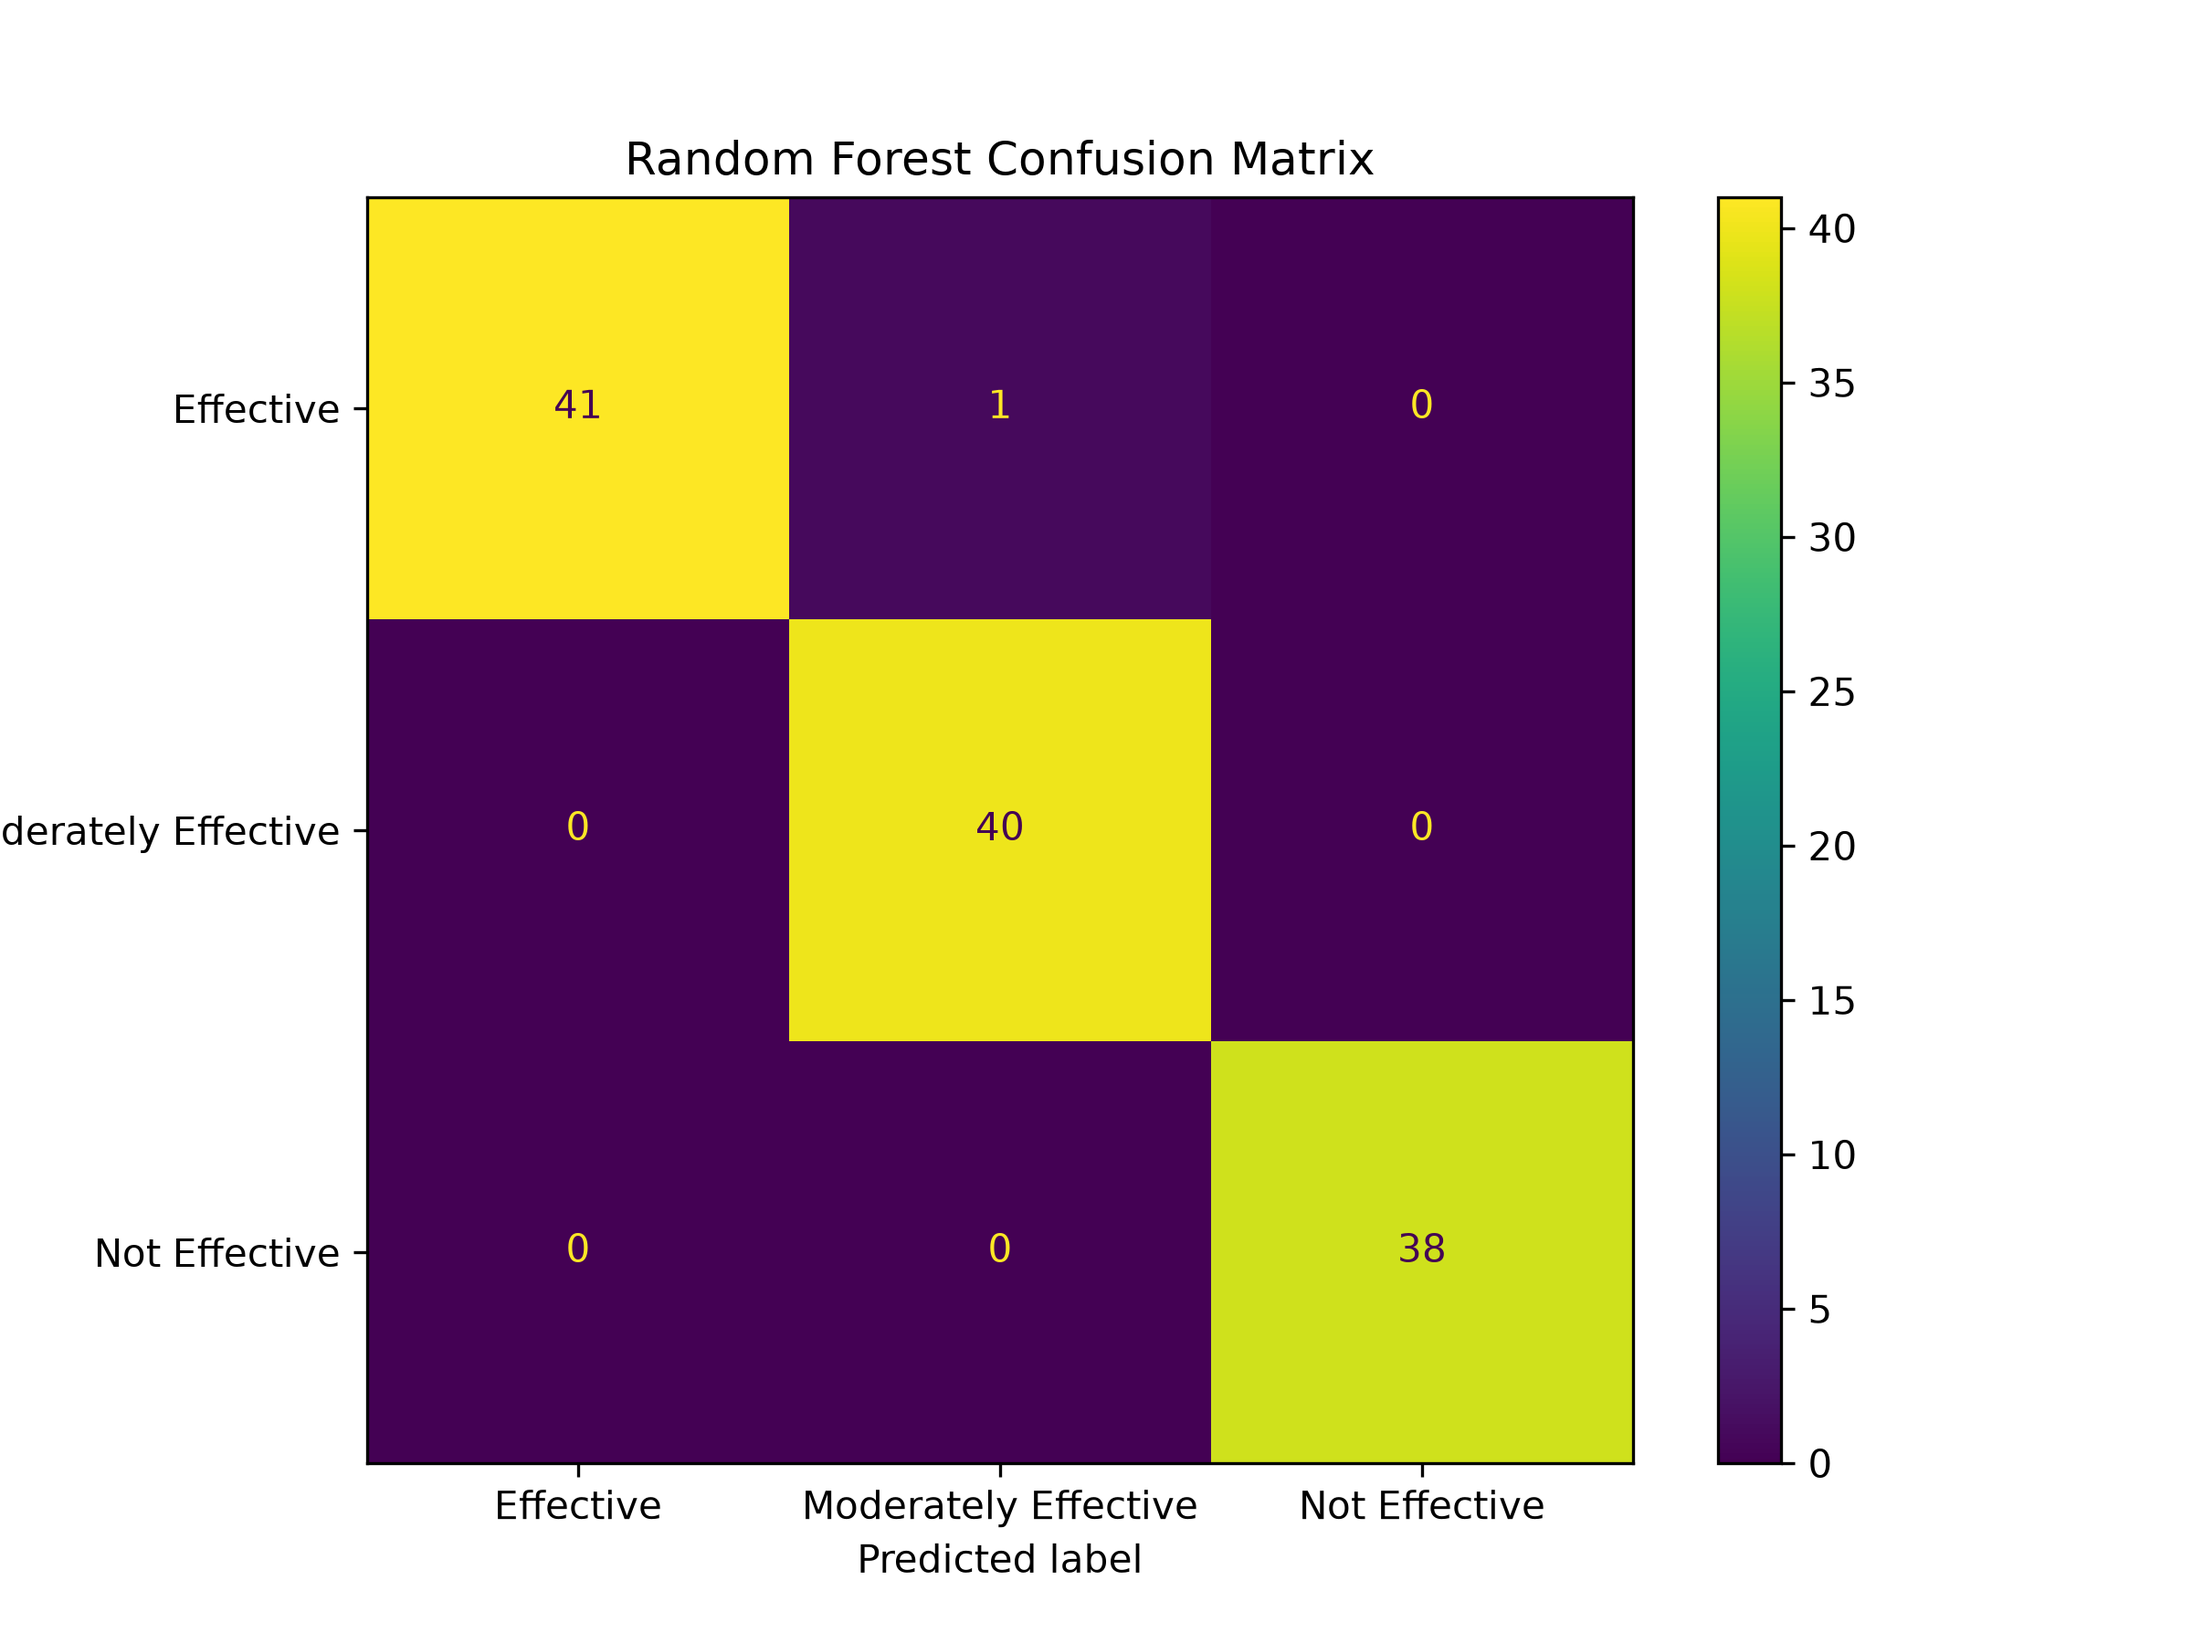
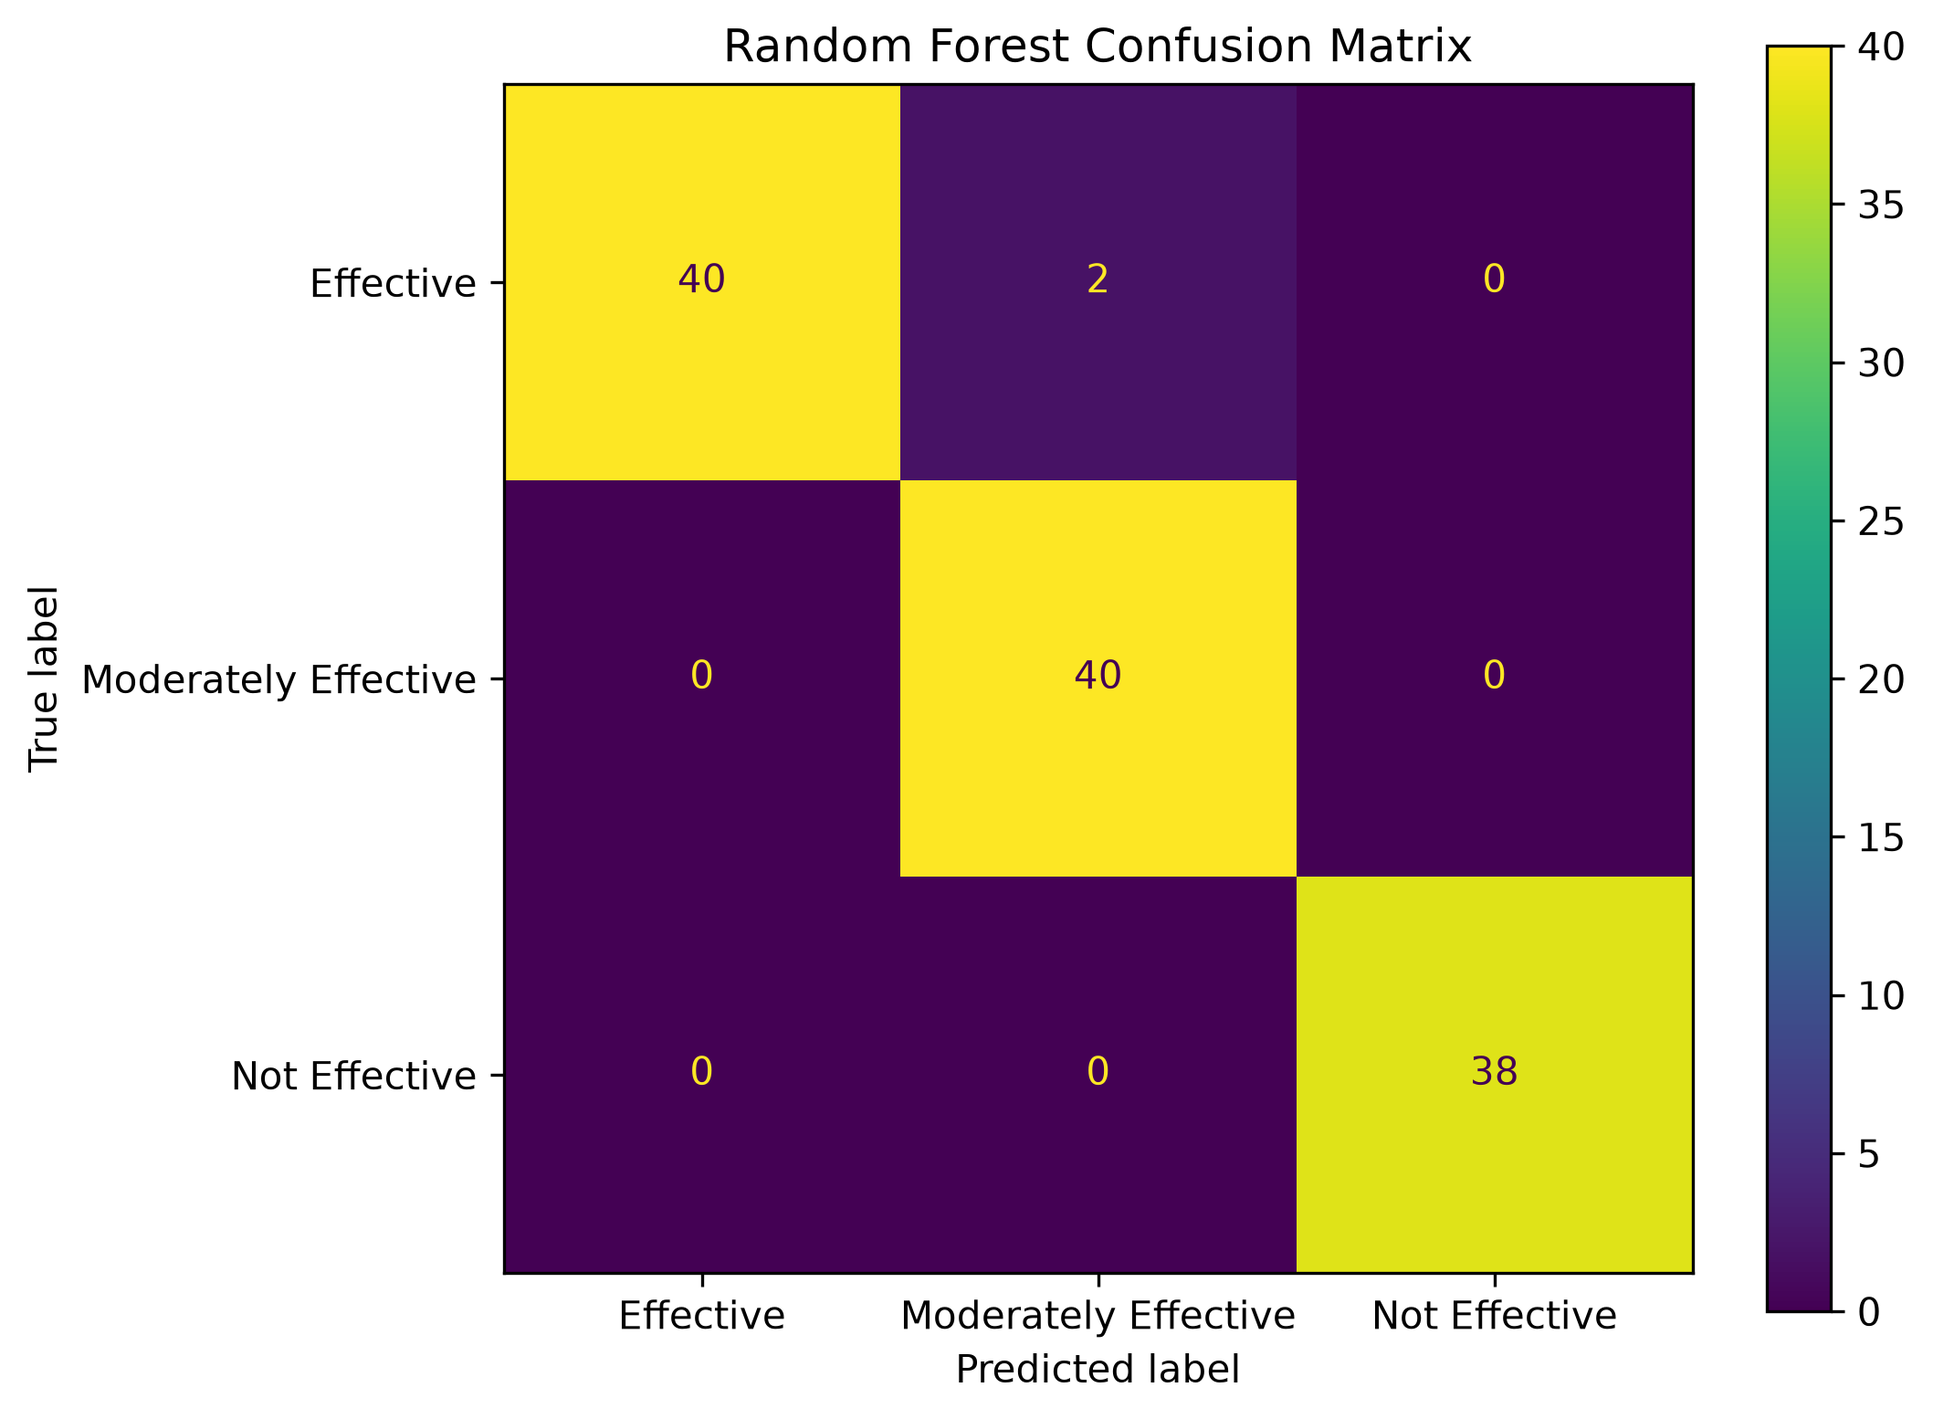
initial update

diff --git a/random_forest_effectiveness_train_model.py b/random_forest_effectiveness_train_model.py
@@ -1,12 +1,19 @@
 import pandas as pd
+import numpy as np
 import joblib
 import matplotlib.pyplot as plt
 
-from sklearn.model_selection import train_test_split
+from sklearn.model_selection import (
+    train_test_split,
+    learning_curve,
+    cross_val_score
+)
+
 from sklearn.compose import ColumnTransformer
 from sklearn.preprocessing import OneHotEncoder
 from sklearn.pipeline import Pipeline
 from sklearn.ensemble import RandomForestClassifier
+
 from sklearn.metrics import (
     accuracy_score,
     classification_report,
@@ -14,21 +21,28 @@ from sklearn.metrics import (
     ConfusionMatrixDisplay
 )
 
-
+# =====================================================
 # LOAD DATASET
+# =====================================================
 
 df = pd.read_excel("datasets/subsidy_dataset.xlsx")
 
+print("\n==============================")
+print("DATASET")
+print("==============================")
 print("Dataset Shape:", df.shape)
 print(df.head())
 
+# =====================================================
 # FEATURES AND TARGET
+# =====================================================
 
 X = df.drop(columns=["Effectiveness Label"])
 y = df["Effectiveness Label"]
 
-
-# CATEGORICAL & NUMERICAL COLUMNS
+# =====================================================
+# CATEGORICAL & NUMERICAL FEATURES
+# =====================================================
 
 categorical_cols = [
     "Subsidy Type",
@@ -45,8 +59,9 @@ numerical_cols = [
     "Feedback Score"
 ]
 
-
-# PREPROCESSING
+# =====================================================
+# PREPROCESSOR
+# =====================================================
 
 preprocessor = ColumnTransformer(
     transformers=[
@@ -63,22 +78,30 @@ preprocessor = ColumnTransformer(
     ]
 )
 
-# RANDOM FOREST MODEL
+# =====================================================
+# RANDOM FOREST (IMPROVED)
+# =====================================================
 
 rf_model = RandomForestClassifier(
-    n_estimators=100,
+    n_estimators=200,
+    max_depth=10,
+    min_samples_split=5,
+    min_samples_leaf=2,
     random_state=42
 )
 
+# =====================================================
 # PIPELINE
+# =====================================================
 
 pipeline = Pipeline([
     ("preprocessor", preprocessor),
     ("classifier", rf_model)
 ])
 
-
+# =====================================================
 # TRAIN TEST SPLIT
+# =====================================================
 
 X_train, X_test, y_train, y_test = train_test_split(
     X,
@@ -88,16 +111,34 @@ X_train, X_test, y_train, y_test = train_test_split(
     stratify=y
 )
 
-
+# =====================================================
 # TRAIN MODEL
+# =====================================================
 
 pipeline.fit(X_train, y_train)
 
+# =====================================================
+# TRAIN VS TEST ACCURACY
+# =====================================================
 
+train_accuracy = pipeline.score(X_train, y_train)
+test_accuracy = pipeline.score(X_test, y_test)
+
+print("\n==============================")
+print("TRAIN VS TEST ACCURACY")
+print("==============================")
+print(f"Train Accuracy : {train_accuracy * 100:.2f}%")
+print(f"Test Accuracy  : {test_accuracy * 100:.2f}%")
+
+# =====================================================
 # PREDICTIONS
+# =====================================================
+
 y_pred = pipeline.predict(X_test)
 
+# =====================================================
 # ACCURACY
+# =====================================================
 
 accuracy = accuracy_score(y_test, y_pred)
 
@@ -106,16 +147,18 @@ print("ACCURACY")
 print("==============================")
 print(f"Accuracy: {accuracy * 100:.2f}%")
 
-# ==========================================
+# =====================================================
 # CLASSIFICATION REPORT
-# ==========================================
+# =====================================================
+
 print("\n==============================")
 print("CLASSIFICATION REPORT")
 print("==============================")
 print(classification_report(y_test, y_pred))
 
-
+# =====================================================
 # CONFUSION MATRIX
+# =====================================================
 
 cm = confusion_matrix(y_test, y_pred)
 
@@ -124,60 +167,170 @@ print("CONFUSION MATRIX")
 print("==============================")
 print(cm)
 
+# =====================================================
+# SAVE CONFUSION MATRIX IMAGE
+# =====================================================
 
-# DISPLAY CONFUSION MATRIX
+fig_cm, ax_cm = plt.subplots(figsize=(7, 6))
 
 disp = ConfusionMatrixDisplay(
     confusion_matrix=cm,
     display_labels=pipeline.classes_
 )
 
-fig, ax = plt.subplots(figsize=(8, 6))
-disp.plot(ax=ax)
+disp.plot(ax=ax_cm)
 
 plt.title("Random Forest Confusion Matrix")
 
-# Save Image
-plt.savefig("confusion_matrix.png", dpi=300)
+plt.savefig(
+    "confusion_matrix.png",
+    dpi=300,
+    bbox_inches="tight"
+)
+
+plt.close()
+
+# =====================================================
+# LEARNING CURVE
+# =====================================================
+
+train_sizes, train_scores, test_scores = learning_curve(
+    pipeline,
+    X,
+    y,
+    cv=5,
+    scoring="accuracy",
+    train_sizes=np.linspace(0.1, 1.0, 10),
+    n_jobs=-1
+)
+
+train_mean = train_scores.mean(axis=1)
+test_mean = test_scores.mean(axis=1)
+
+# =====================================================
+# CROSS VALIDATION
+# =====================================================
+
+cv_scores = cross_val_score(
+    pipeline,
+    X,
+    y,
+    cv=5,
+    scoring="accuracy"
+)
+
+print("\n==============================")
+print("CROSS VALIDATION")
+print("==============================")
+print("Scores:", cv_scores)
+print(f"Mean Accuracy: {cv_scores.mean()*100:.2f}%")
+print(f"Std Dev: {cv_scores.std()*100:.2f}%")
+
+# =====================================================
+# TRAINING RESULTS FIGURE
+# =====================================================
+
+fig, axes = plt.subplots(1, 3, figsize=(20, 6))
+
+fig.suptitle(
+    "Random Forest Training Results",
+    fontsize=16,
+    fontweight="bold"
+)
+
+# =====================================================
+# LEARNING CURVE
+# =====================================================
+
+axes[0].plot(
+    train_sizes,
+    train_mean,
+    marker='o',
+    linewidth=2,
+    label='Training Accuracy'
+)
+
+axes[0].plot(
+    train_sizes,
+    test_mean,
+    marker='o',
+    linewidth=2,
+    label='Validation Accuracy'
+)
+
+axes[0].set_title("Learning Curve")
+axes[0].set_xlabel("Training Samples")
+axes[0].set_ylabel("Accuracy")
+axes[0].set_ylim(0.80, 1.01)
+axes[0].legend()
+axes[0].grid(True)
+
+# =====================================================
+# CROSS VALIDATION ACCURACY
+# =====================================================
+
+folds = [f"Fold {i}" for i in range(1, 6)]
+
+bars = axes[1].bar(
+    folds,
+    cv_scores * 100
+)
+
+axes[1].set_title("Cross-Validation Accuracy")
+axes[1].set_ylabel("Accuracy (%)")
+axes[1].set_ylim(0, 100)
+
+for bar, score in zip(bars, cv_scores):
+    axes[1].text(
+        bar.get_x() + bar.get_width() / 2,
+        score * 100 + 1,
+        f"{score * 100:.2f}%",
+        ha='center'
+    )
+
+# =====================================================
+# CONFUSION MATRIX
+# =====================================================
+
+disp = ConfusionMatrixDisplay(
+    confusion_matrix=cm,
+    display_labels=pipeline.classes_
+)
+
+disp.plot(
+    ax=axes[2],
+    colorbar=False
+)
+
+axes[2].set_title("Confusion Matrix")
+
+# =====================================================
+# SAVE FIGURE
+# =====================================================
+
+plt.tight_layout()
+
+plt.savefig(
+    "training_results.png",
+    dpi=300,
+    bbox_inches="tight"
+)
 
 plt.show()
 
-
-# FEATURE IMPORTANCE
-
-print("\n==============================")
-print("FEATURE IMPORTANCE")
-print("==============================")
-
-feature_names = (
-    pipeline.named_steps["preprocessor"]
-    .get_feature_names_out()
-)
-
-importances = (
-    pipeline.named_steps["classifier"]
-    .feature_importances_
-)
-
-feature_importance_df = pd.DataFrame({
-    "Feature": feature_names,
-    "Importance": importances
-})
-
-feature_importance_df = feature_importance_df.sort_values(
-    by="Importance",
-    ascending=False
-)
-
-print(feature_importance_df)
-
-
+# =====================================================
 # SAVE MODEL
+# =====================================================
 
 joblib.dump(
     pipeline,
     "random_forest_subsidy.pkl"
 )
 
-print("\nModel saved as random_forest_subsidy.pkl")
-print("Confusion matrix saved as confusion_matrix.png")
+print("\n==============================")
+print("FILES GENERATED")
+print("==============================")
+print("✓ random_forest_subsidy.pkl")
+print("✓ confusion_matrix.png")
+print("✓ training_results.png")
+print("==============================")
